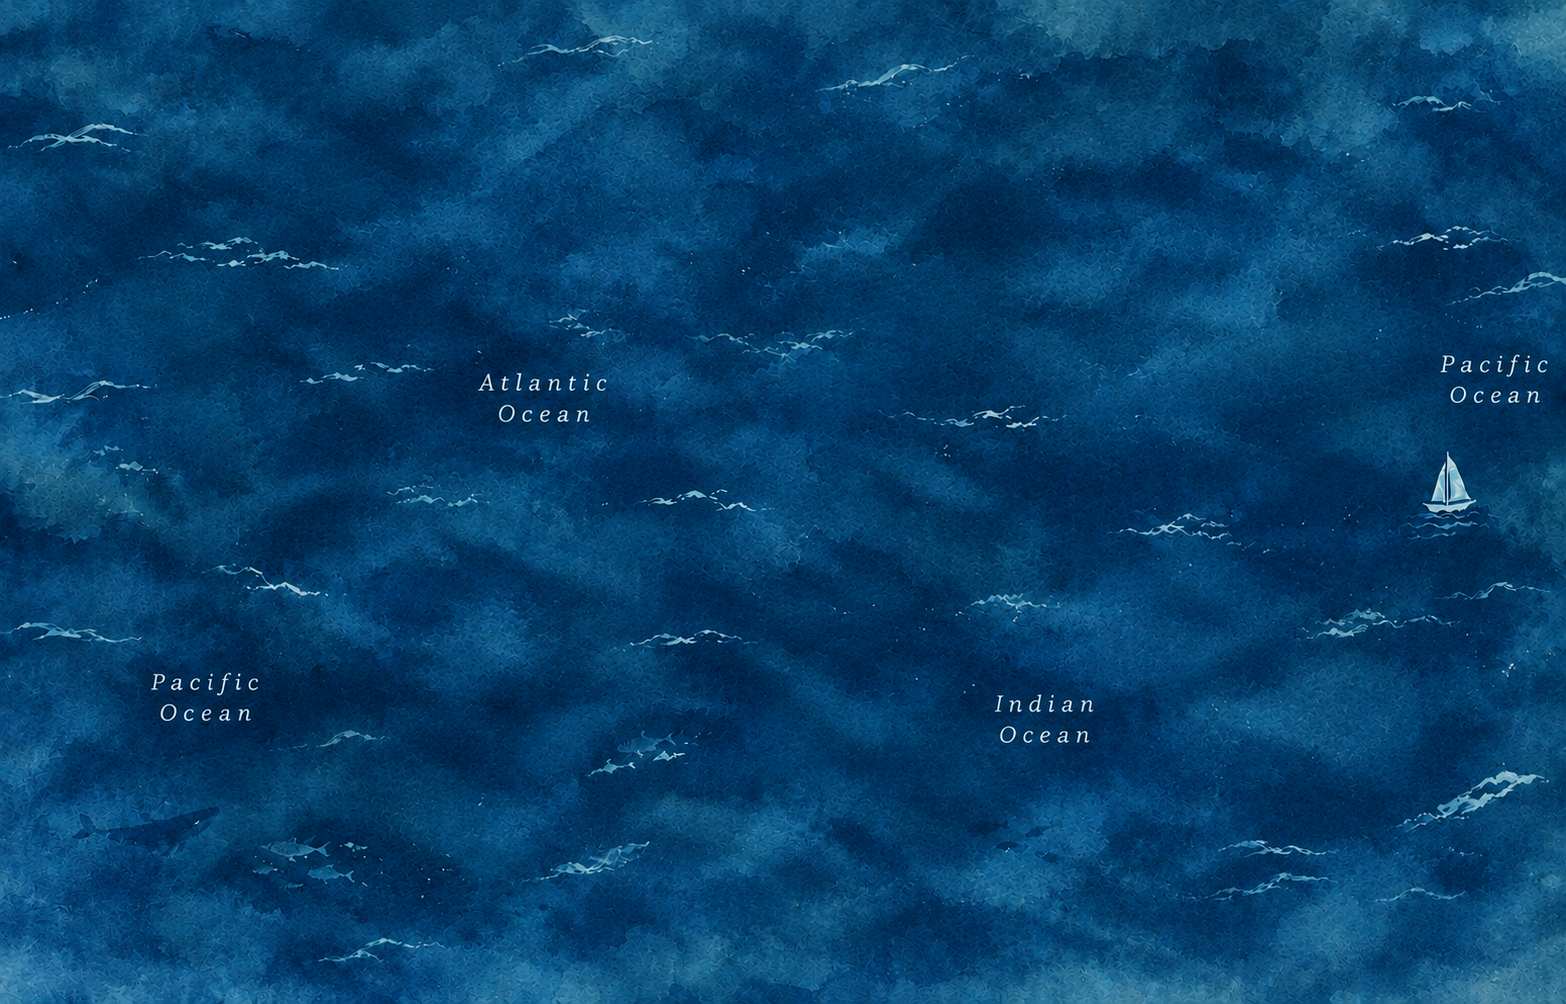
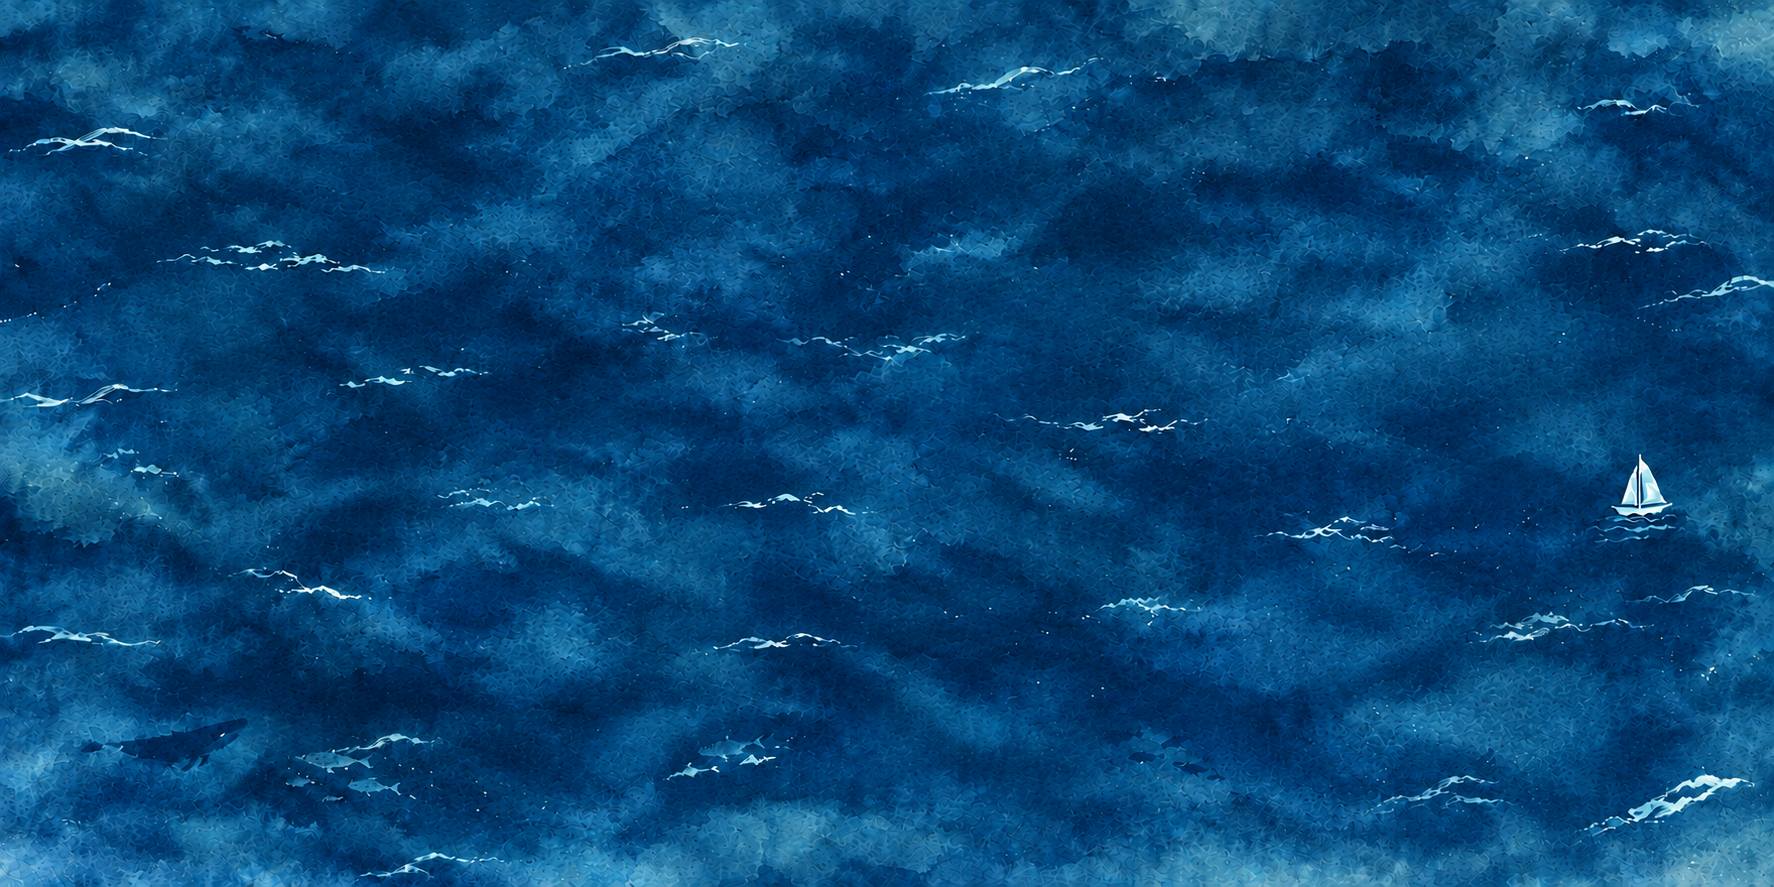
map fix&regionflag upload

diff --git a/src/components/OriginMap.jsx b/src/components/OriginMap.jsx
@@ -24,7 +24,6 @@ function toAm5Color(value, fallback) {
 export function OriginMap({ origins, theme, onOriginSelect }) {
   const surfaceElement = useRef(null);
   const chartElement = useRef(null);
-  const backgroundElement = useRef(null);
   const onOriginSelectRef = useRef(onOriginSelect);
   const mapBackground = theme === "dark"
     ? "/images/maps/map-background-dark.png"
@@ -42,7 +41,7 @@ export function OriginMap({ origins, theme, onOriginSelect }) {
     const chart = root.container.children.push(am5map.MapChart.new(root, {
       panX: MAP_CONFIG.interaction.mapPan ? "translateX" : "none",
       panY: MAP_CONFIG.interaction.mapPan ? "translateY" : "none",
-      projection: am5map.geoMercator(),
+      projection: am5map.geoEquirectangular(),
       homeGeoPoint: {
         longitude: MAP_CONFIG.initialView.centerLongitude,
         latitude: MAP_CONFIG.initialView.centerLatitude
@@ -58,53 +57,11 @@ export function OriginMap({ origins, theme, onOriginSelect }) {
       doubleClickZoom: MAP_CONFIG.interaction.mapZoom,
       boxZoom: "none"
     }));
-    let baseView;
-    let previousSize;
-    const getMapBounds = () => {
-      if (!chartElement.current || !surfaceElement.current) return undefined;
+    chart.series.push(am5map.MapRasterSeries.new(root, {
+      src: mapBackground,
+      affectsBounds: true
+    }));
 
-      const mapRect = chartElement.current.getBoundingClientRect();
-      const surfaceRect = surfaceElement.current.getBoundingClientRect();
-      return {
-        left: mapRect.left - surfaceRect.left,
-        top: mapRect.top - surfaceRect.top,
-        width: mapRect.width,
-        height: mapRect.height
-      };
-    };
-    const syncBackground = ({ resetBase = false } = {}) => {
-      const background = backgroundElement.current;
-      const mapBounds = getMapBounds();
-      if (!background || !mapBounds || mapBounds.width <= 0 || mapBounds.height <= 0) {
-        return;
-      }
-
-      const zoomLevel = chart.get("zoomLevel", MAP_CONFIG.initialView.zoomLevel);
-      const translateX = chart.get("translateX", chart.width() / 2);
-      const translateY = chart.get("translateY", chart.height() / 2);
-      const sizeChanged = !previousSize
-        || previousSize.width !== mapBounds.width
-        || previousSize.height !== mapBounds.height;
-
-      background.style.left = `${mapBounds.left}px`;
-      background.style.top = `${mapBounds.top}px`;
-      background.style.width = `${mapBounds.width}px`;
-      background.style.height = `${mapBounds.height}px`;
-
-      if (!baseView || resetBase || sizeChanged) {
-        baseView = { zoomLevel, translateX, translateY };
-      }
-      previousSize = mapBounds;
-
-      const scale = zoomLevel / baseView.zoomLevel;
-      const offsetX = translateX - baseView.translateX;
-      const offsetY = translateY - baseView.translateY;
-      background.style.transform =
-        `translate(${offsetX}px, ${offsetY}px) scale(${scale})`;
-    };
-    root.events.on("frameended", syncBackground);
-    const resizeObserver = new ResizeObserver(() => syncBackground({ resetBase: true }));
-    resizeObserver.observe(chartElement.current);
     const polygonSeries = chart.series.push(am5map.MapPolygonSeries.new(root, {
       geoJSON: am5geodata_worldLow,
       exclude: MAP_CONFIG.geography.excludeAntarctica ? ["AQ"] : []
@@ -185,9 +142,7 @@ export function OriginMap({ origins, theme, onOriginSelect }) {
     }));
 
     chart.appear(500, 50);
-
     return () => {
-      resizeObserver.disconnect();
       root.dispose();
     };
   }, [origins, theme]);
@@ -200,13 +155,6 @@ export function OriginMap({ origins, theme, onOriginSelect }) {
         className="map-surface"
         aria-label="コーヒー産地マップ"
       >
-        <img
-          ref={backgroundElement}
-          className="map-background-layer"
-          src={mapBackground}
-          alt=""
-          aria-hidden="true"
-        />
         <div ref={chartElement} className="world-map-chart" />
         {origins.length === 0 && <p className="empty-state">表示できる産地データがありません。</p>}
       </div>

diff --git a/src/components/OriginDetailsModal.jsx b/src/components/OriginDetailsModal.jsx
@@ -1,6 +1,7 @@
 import { useEffect, useRef } from "react";
 import { MAP_CONFIG } from "../lib/config.js";
 import { formatAltitude, formatProduction, hasProductionData } from "../lib/origins.js";
+import { CountryFlag } from "./CountryFlag.jsx";
 
 export function OriginDetailsModal({ origin, onClose }) {
   const closeButton = useRef(null);
@@ -17,7 +18,10 @@ export function OriginDetailsModal({ origin, onClose }) {
       <section className="modal" role="dialog" aria-modal="true" aria-labelledby="origin-title">
         <button ref={closeButton} className="icon-button" onClick={onClose} aria-label="詳細を閉じる">×</button>
         <p className="eyebrow">{origin.nameEn || origin.id}</p>
-        <h2 id="origin-title">{origin.name}</h2>
+        <h2 id="origin-title" className="country-heading">
+          <CountryFlag countryId={origin.id} countryName={origin.name} />
+          <span>{origin.name}</span>
+        </h2>
         <p className="modal-overview">{origin.overview || "この産地の概要は準備中です。"}</p>
         <div className="detail-grid">
           <div><span>地域</span><strong>{origin.region || "情報がないようです :("}</strong></div>

diff --git a/src/styles.css b/src/styles.css
@@ -217,19 +217,10 @@ em {
     position: relative;
     overflow: hidden;
     width: 100%;
-    aspect-ratio: 900 / 455;
+    aspect-ratio: 2 / 1;
     min-height: clamp(320px, 42vw, 560px);
     border-radius: 2px;
     background: var(--map-ocean);
-}
-
-.map-background-layer {
-    position: absolute;
-    z-index: 0;
-    object-fit: fill;
-    transform-origin: 0 0;
-    pointer-events: none;
-    user-select: none;
 }
 
 .world-map-chart {
@@ -404,6 +395,19 @@ em {
 .modal h2 {
     margin: 8px 0 16px;
     font: 500 38px "Playfair Display", serif;
+}
+
+.country-heading {
+    display: flex;
+    align-items: center;
+    gap: 8px;
+}
+
+.country-flag {
+    width: 32px;
+    height: 24px;
+    flex: 0 0 auto;
+    object-fit: contain;
 }
 
 .modal-overview {

diff --git a/src/components/CountryFlag.jsx b/src/components/CountryFlag.jsx
@@ -1,0 +1,20 @@
+import { useState } from "react";
+import { getFlagUrl } from "../lib/origins.js";
+
+export function CountryFlag({ countryId, countryName }) {
+  const [isAvailable, setIsAvailable] = useState(true);
+
+  if (!countryId || !isAvailable) return null;
+
+  return (
+    <img
+      className="country-flag"
+      src={getFlagUrl(countryId)}
+      alt={`${countryName}の国旗`}
+      width={32}
+      height={24}
+      loading="lazy"
+      onError={() => setIsAvailable(false)}
+    />
+  );
+}

diff --git a/src/lib/origins.js b/src/lib/origins.js
@@ -11,6 +11,10 @@ const ORIGIN_COORDINATES = {
   MX: { latitude: 23.6, longitude: -102.5 }
 };
 
+export function getFlagUrl(countryId) {
+  return `https://flagcdn.com/${String(countryId || "").toLowerCase()}.svg`;
+}
+
 export function normalizeOrigins(data) {
   return Object.values(data).filter(
     (origin) => origin && typeof origin === "object" && origin.id

diff --git a/src/lib/config.js b/src/lib/config.js
@@ -48,7 +48,7 @@ export const MAP_CONFIG = {
   zoom: {
     minLevel: 1,
     maxLevel: 8,
-    maxPanOut: 0.25
+    maxPanOut: 0
   },
   production: {
     unit: "トン",
